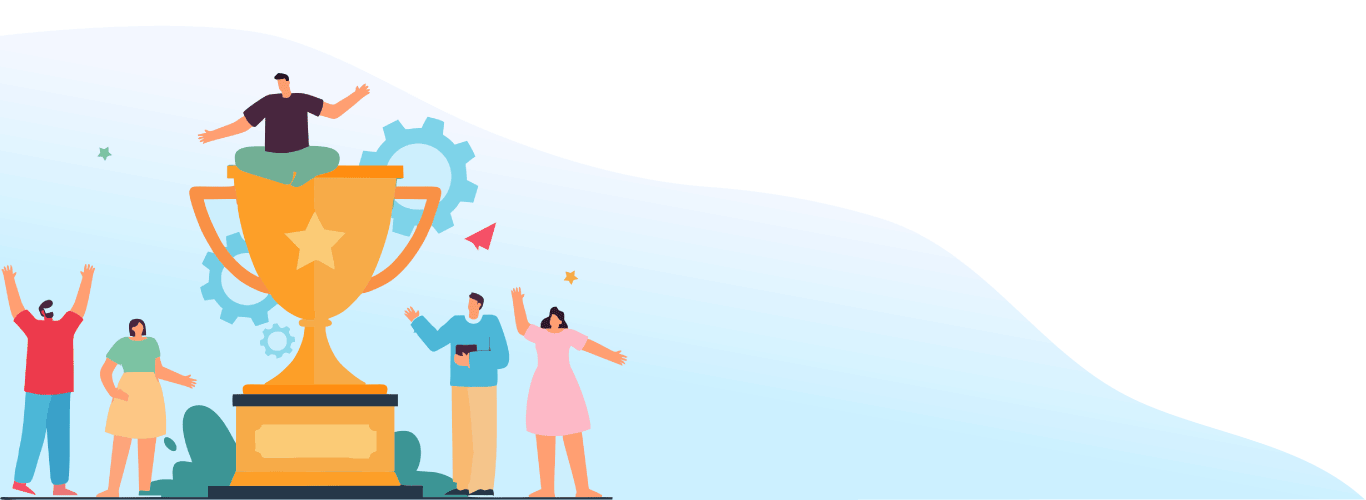
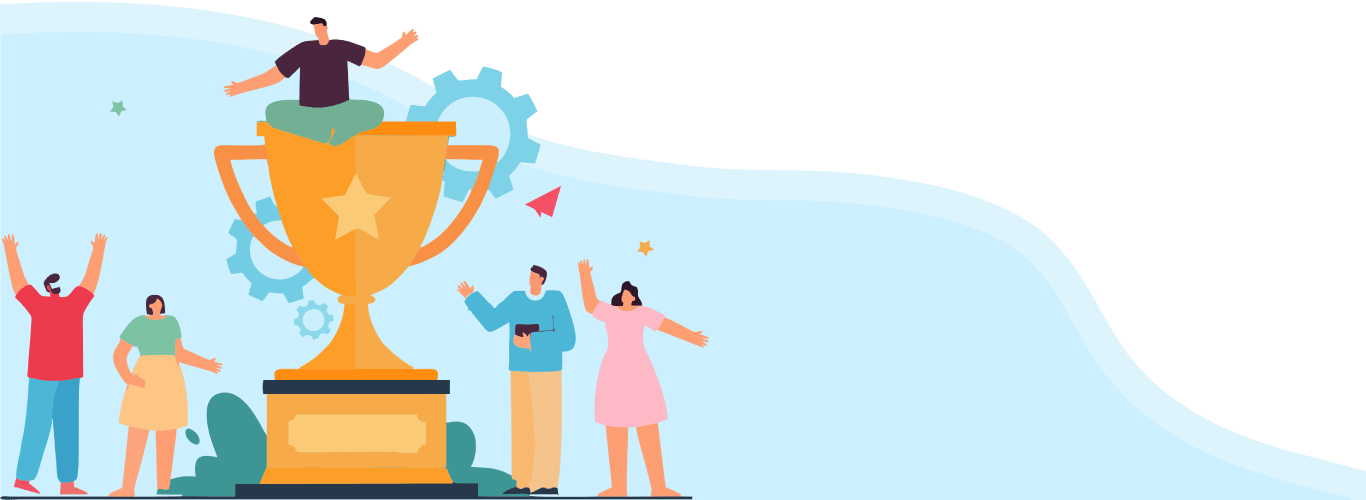
image

diff --git a/public/css/style.css b/public/css/style.css
@@ -31,7 +31,7 @@ h2 {
 .bg-header {
     background-image: url("/asset/bg-header.png");
     background-repeat: no-repeat;
-    height: 821px;
+    height: 500px;
     /* height: 100vh; */
     background-size: 100% 100%;
 }
@@ -41,7 +41,7 @@ h2 {
 @media (max-width: 767.98px) {
     .bg-header {
         height: 450px;
-        background-size: 190%;
+        background-size: 340%;
         /* background-size: contain; */
     }
 }
